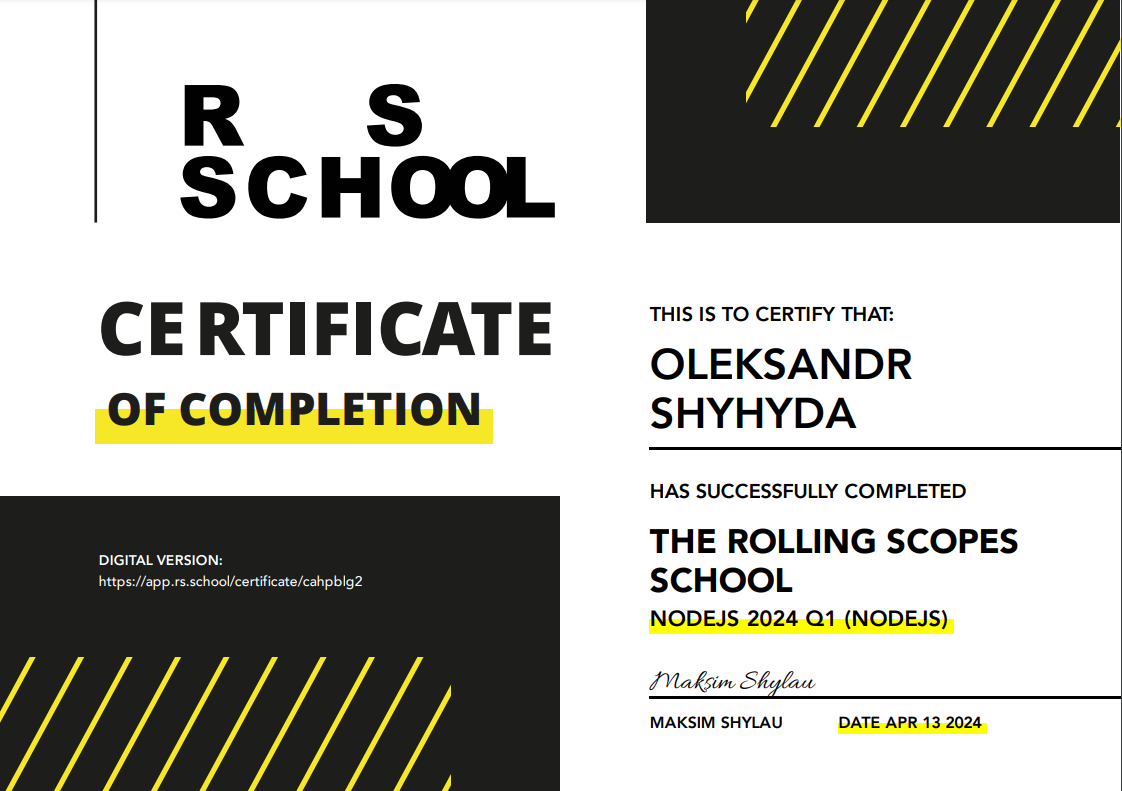
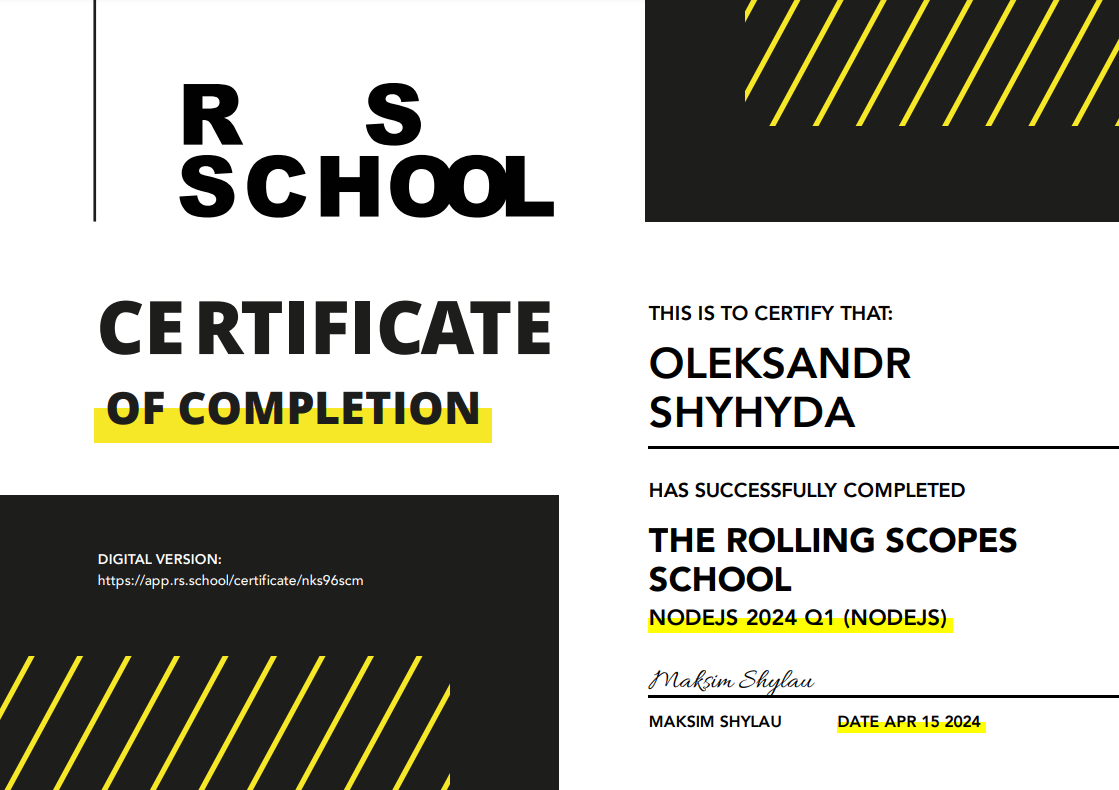
fix: node.js certificate image and link

diff --git a/README.md b/README.md
@@ -171,7 +171,7 @@ Contact: oleksandr.shyhyda@gmail.com
 <details>
 <summary>Certificate</summary>
 
-[![Certificate](/img/cert_be.png)](https://app.rs.school/certificate/cahpblg2)  
+[![Certificate](/img/cert_be.png)](https://app.rs.school/certificate/nks96scm)  
 ![Stats BE](/img/stats_be.png)  
 </details>
 
